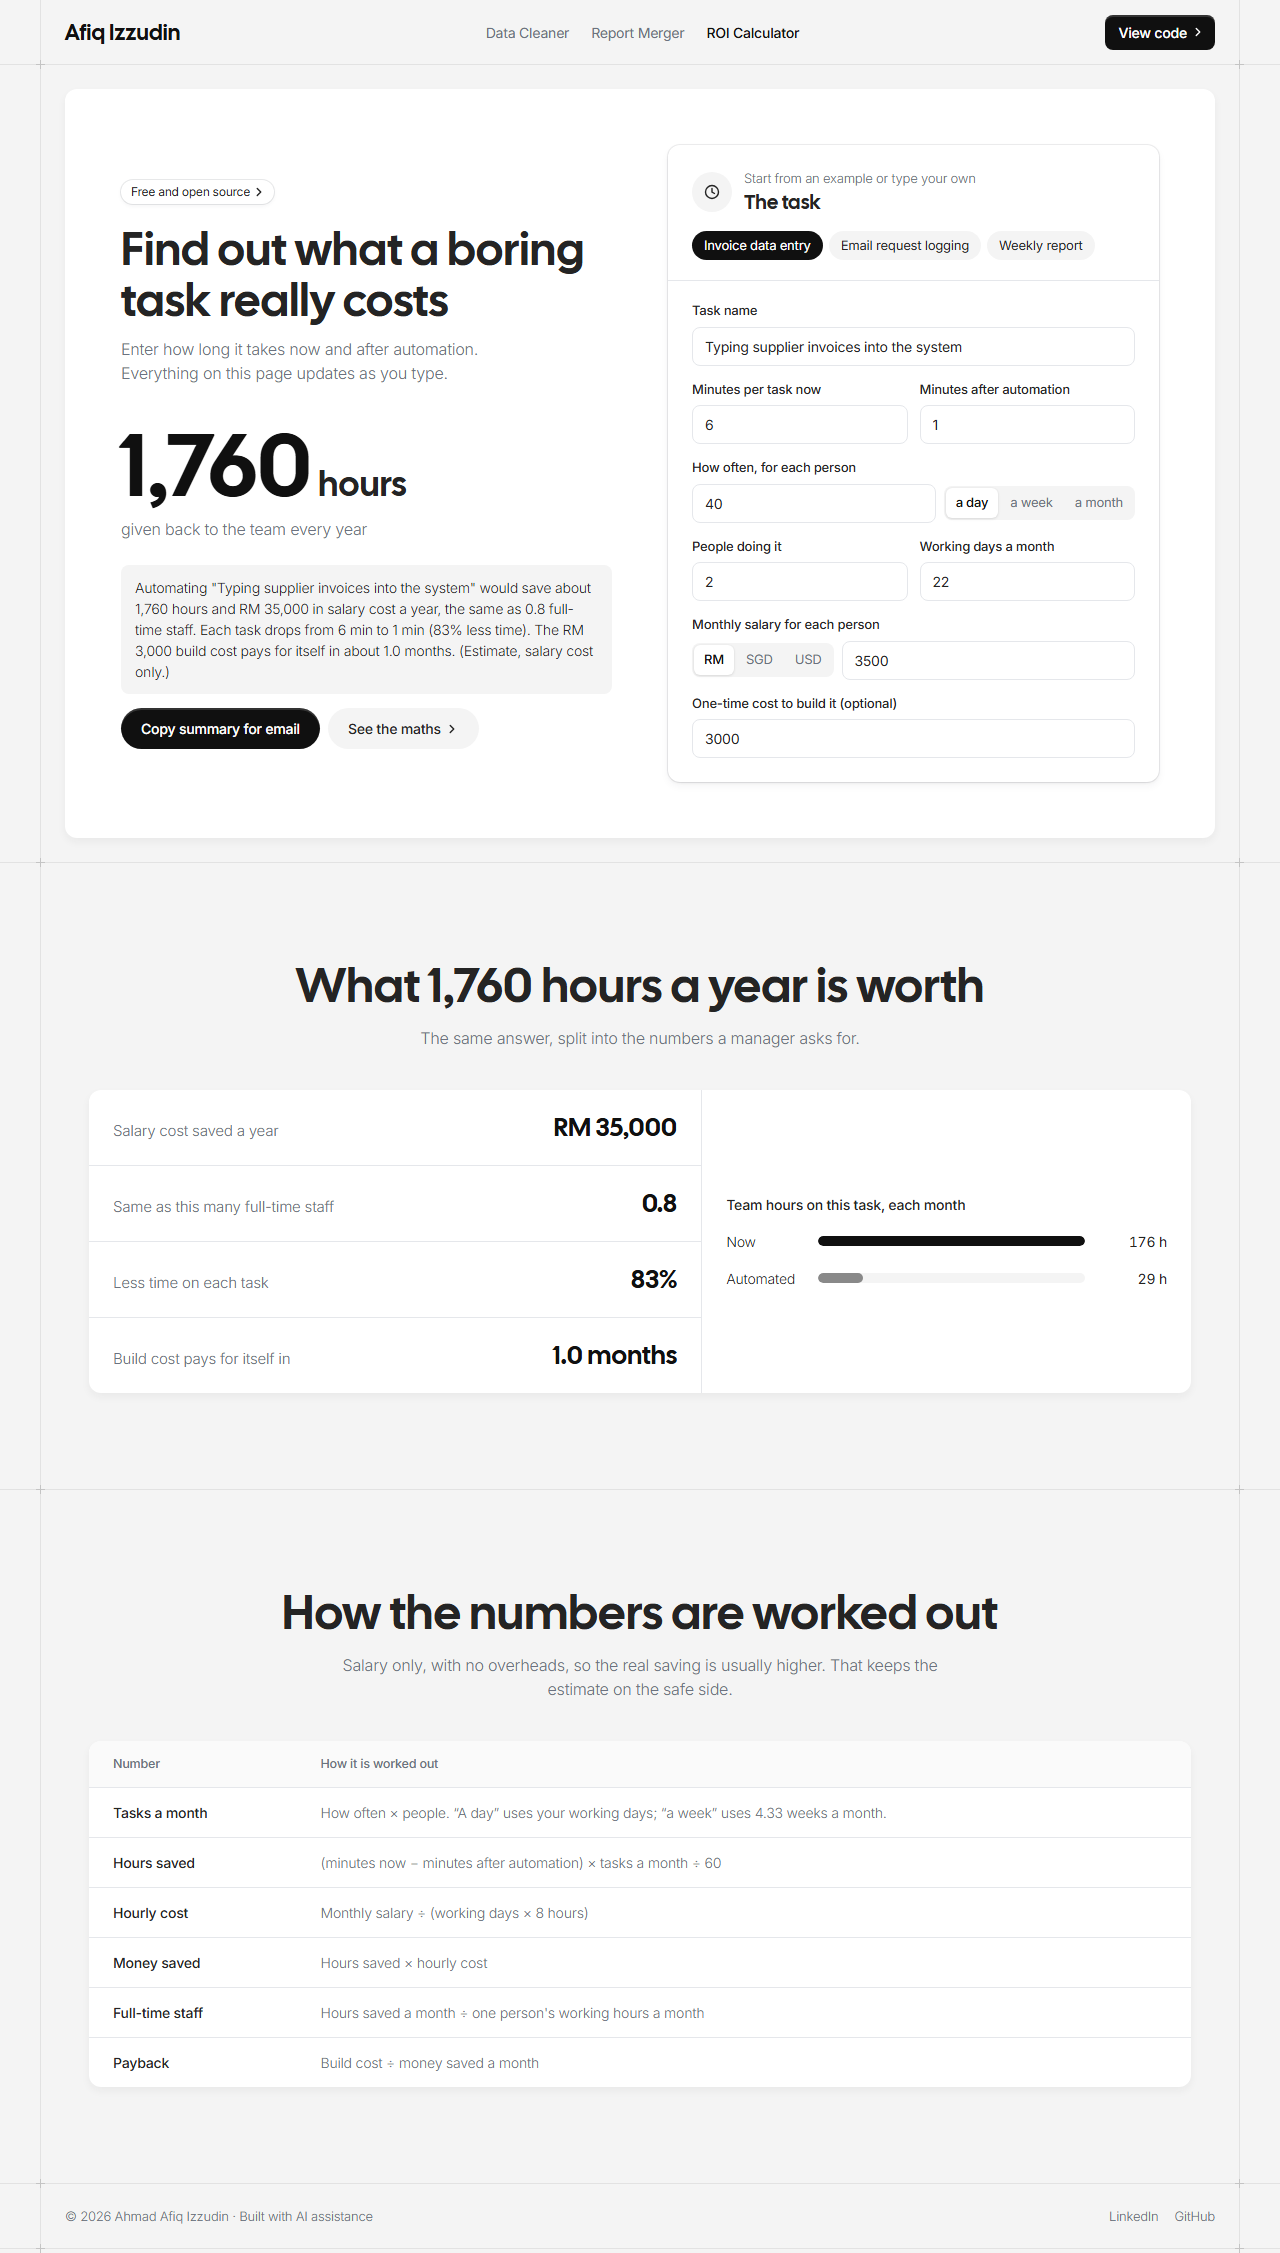
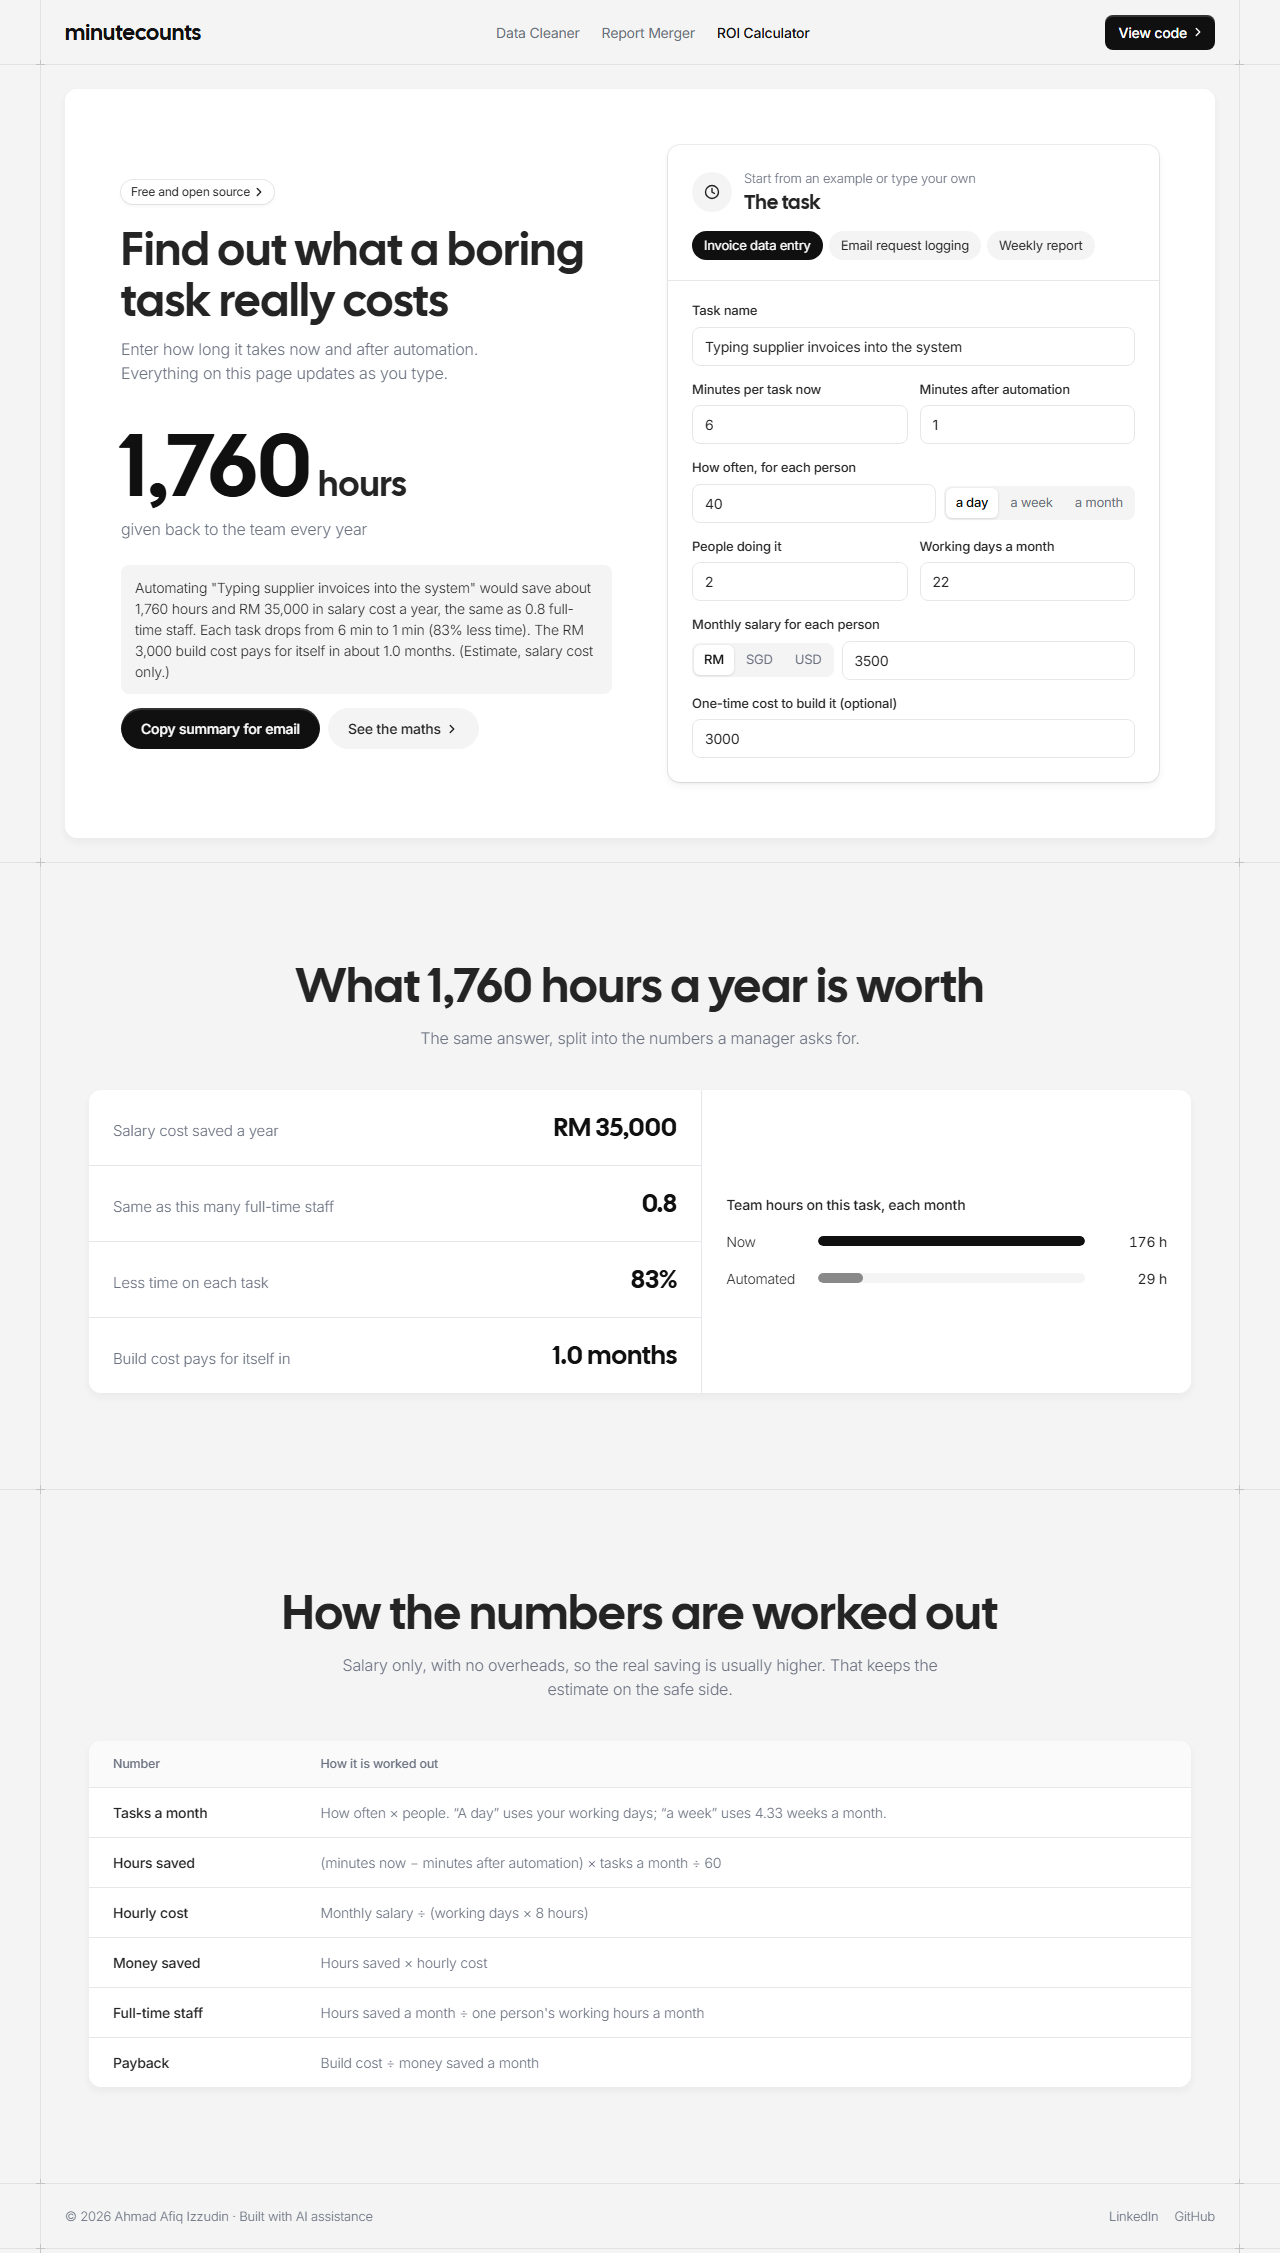
Rename the header wordmark to minutecounts

diff --git a/index.html b/index.html
@@ -171,7 +171,7 @@
 <body>
 <header class="band">
   <div class="frame bar">
-    <a class="wordmark" href="https://www.linkedin.com/in/afiq-izzudin-27aaa936b">Afiq Izzudin</a>
+    <a class="wordmark" href="https://www.linkedin.com/in/afiq-izzudin-27aaa936b">minutecounts</a>
     <nav class="nav" aria-label="Office Toolkit">
       <a href="../excel-data-cleaner/">Data Cleaner</a>
       <a href="../excel-report-merger/">Report Merger</a>
